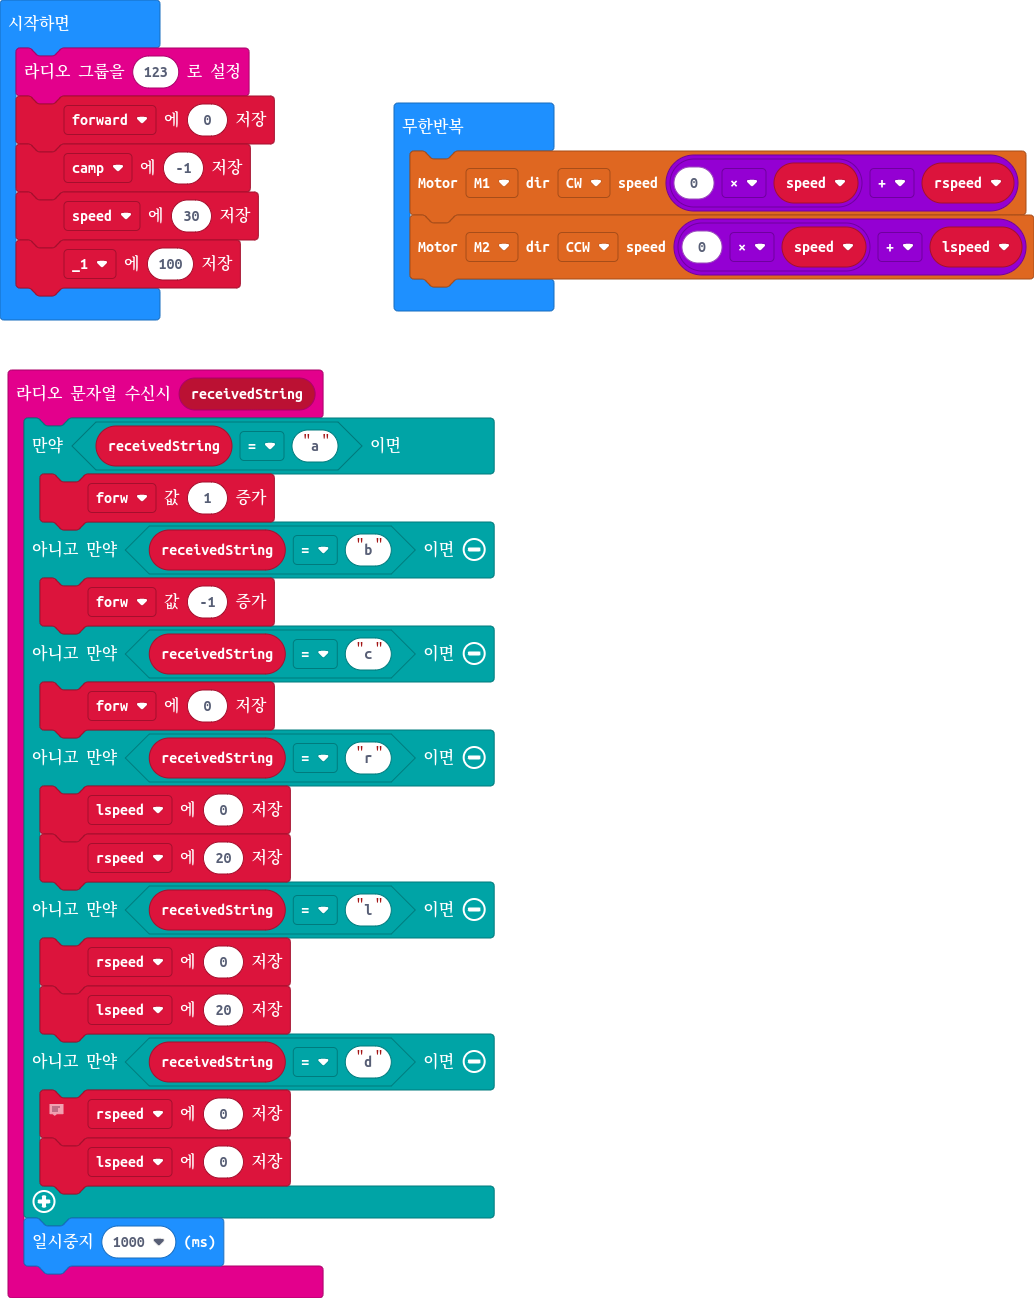
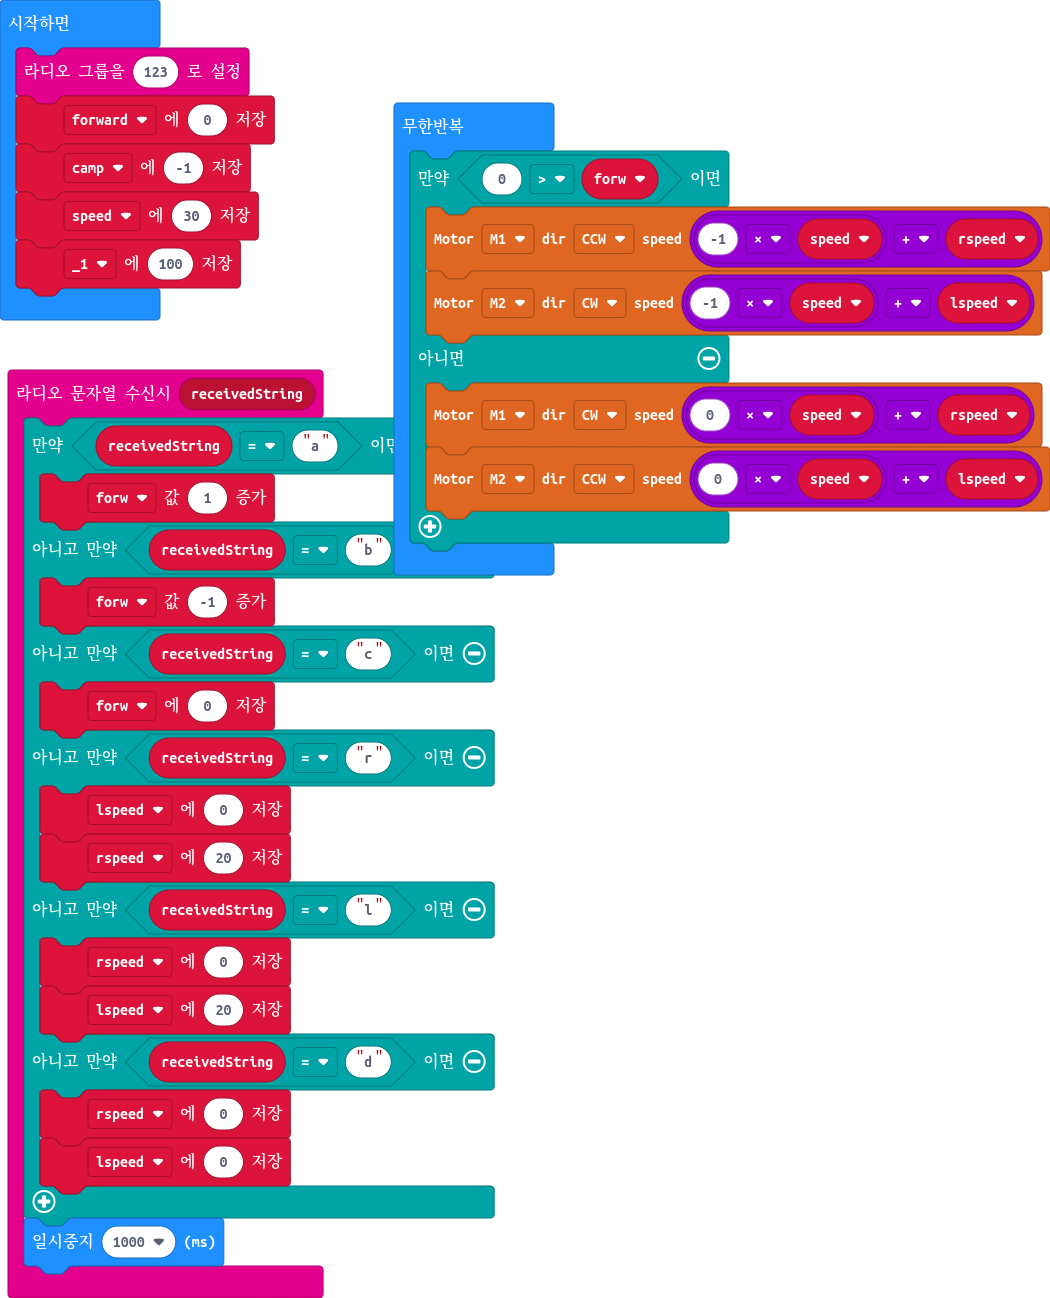
backward straight added

diff --git a/main.ts b/main.ts
@@ -26,6 +26,11 @@ let camp = -1
 let speed = 30
 let _1 = 100
 basic.forever(function () {
-    motor.MotorRun(motor.Motors.M1, motor.Dir.CW, 0 * speed + rspeed)
-    motor.MotorRun(motor.Motors.M2, motor.Dir.CCW, 0 * speed + lspeed)
+    if (0 > forw) {
+        motor.MotorRun(motor.Motors.M1, motor.Dir.CCW, -1 * speed + rspeed)
+        motor.MotorRun(motor.Motors.M2, motor.Dir.CW, -1 * speed + lspeed)
+    } else {
+        motor.MotorRun(motor.Motors.M1, motor.Dir.CW, 0 * speed + rspeed)
+        motor.MotorRun(motor.Motors.M2, motor.Dir.CCW, 0 * speed + lspeed)
+    }
 })
